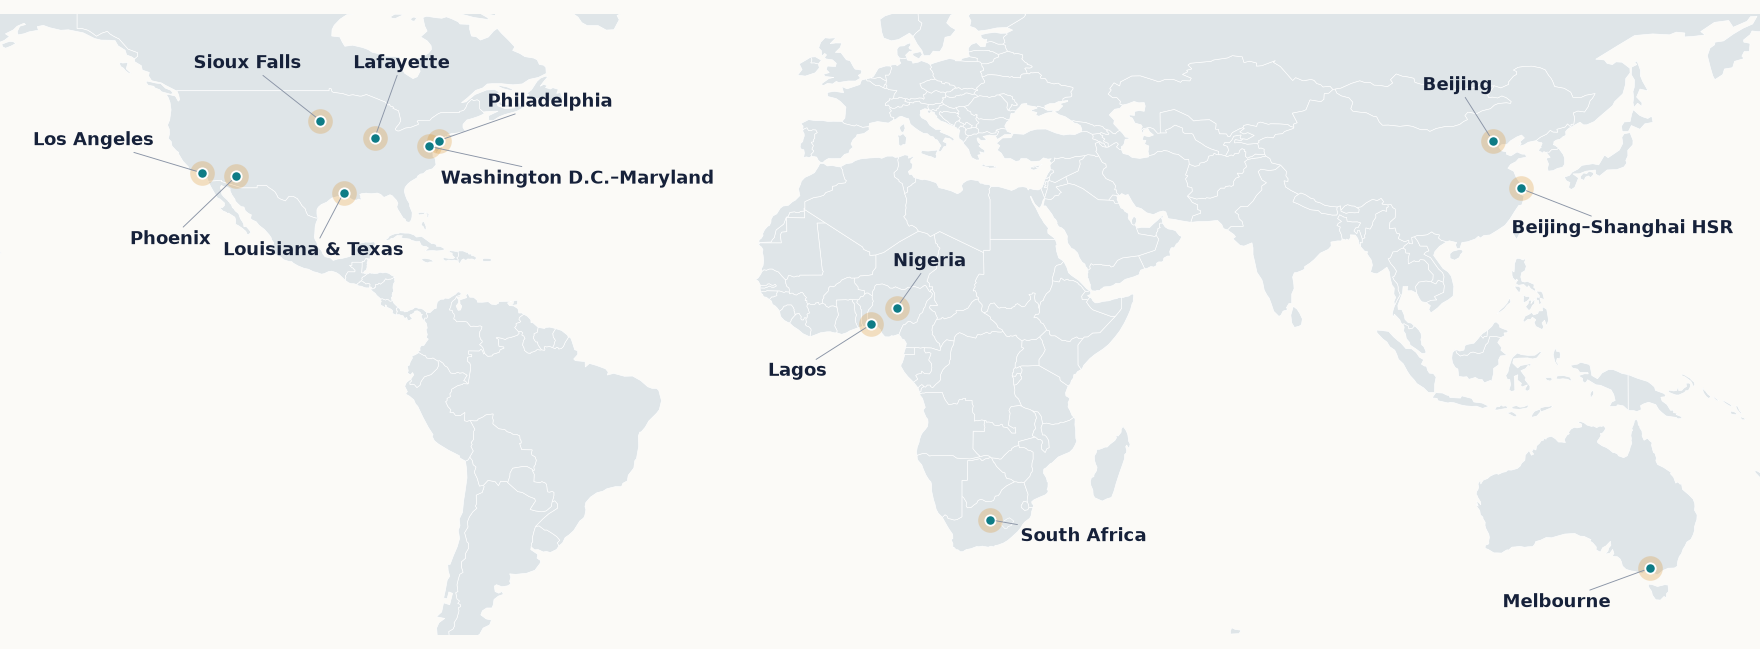
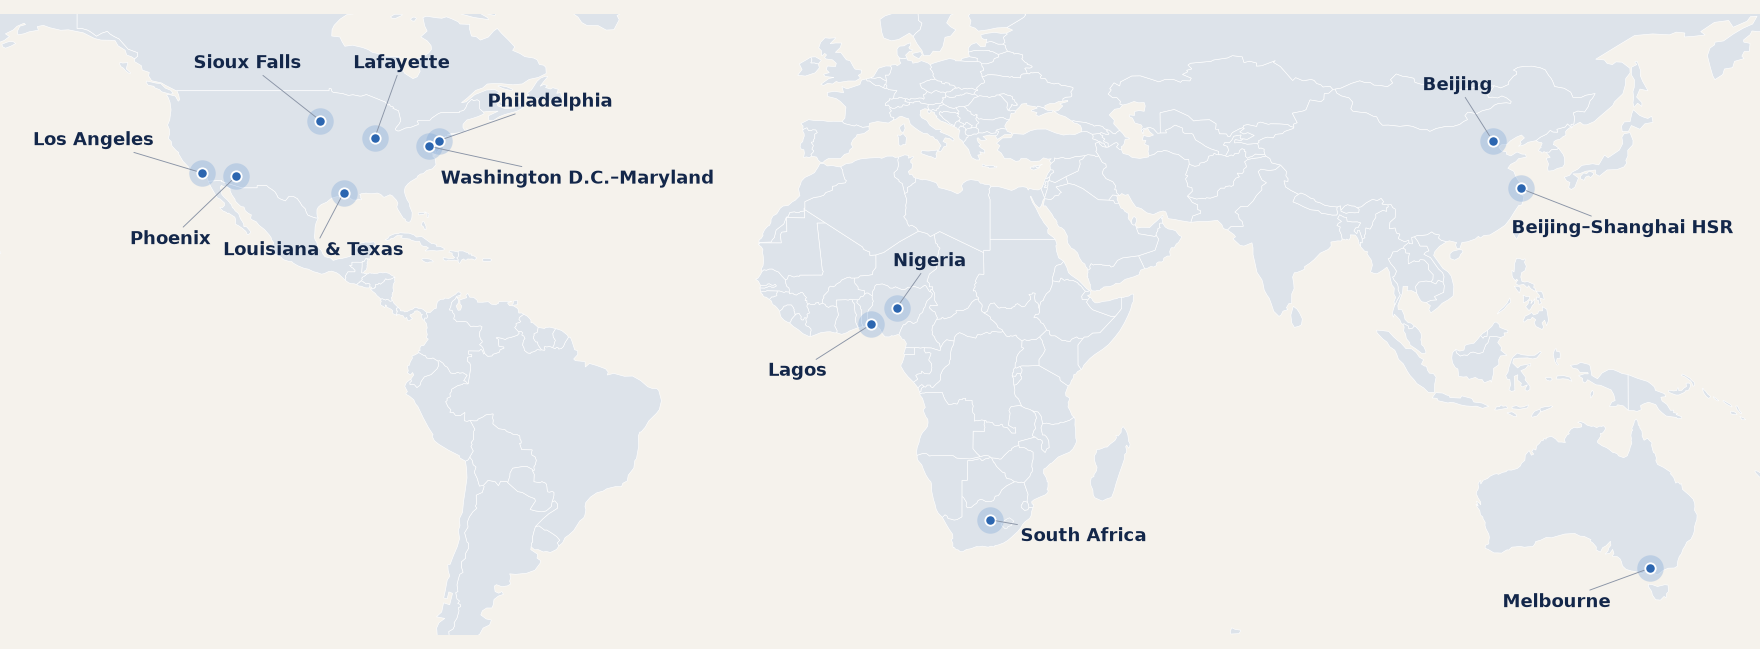
Poster-inspired style: Oswald headings, navy/steel-blue palette, poster home intro; shorter nav labels

diff --git a/assets/css/main.scss b/assets/css/main.scss
@@ -6,17 +6,17 @@ search: false
 @charset "utf-8";
 
 /* ------------------------------------------------------------------
-   Personal palette (taken from the research figures):
-   ink for text, teal for links/accents, amber for highlights
+   Personal palette taken from the profile poster:
+   navy for text/headings, steel blue for links/accents, light steel blue for highlights
    ------------------------------------------------------------------ */
-$ink: #16213a;
-$teal: #0e7c86;
-$teal-dark: #0a5c64;
-$amber: #d98b1f;
-$paper: #fbfaf7;
+$ink: #13274a;
+$teal: #2c66b0;
+$teal-dark: #1d4a86;
+$amber: #7fa7d8;
+$paper: #f5f2ec;
 
 $global-font-family: "Inter", -apple-system, BlinkMacSystemFont, "Segoe UI", Roboto, Arial, sans-serif;
-$header-font-family: "Source Serif 4", Georgia, "Times New Roman", serif;
+$header-font-family: "Oswald", "Arial Narrow", "Helvetica Neue", Arial, sans-serif;
 $primary-color: $teal;
 $link-color: $teal;
 $link-color-hover: $teal-dark;
@@ -36,7 +36,8 @@ body { background: $paper; color: $text-color; }
 h1, h2, h3, h4, .page__title, .archive__item-title, .feature__item h2 {
   font-family: $header-font-family;
   color: $ink;
-  letter-spacing: -0.01em;
+  font-weight: 600;
+  letter-spacing: 0.005em;
 }
 .page__content h2 {
   font-size: 1.55em;
@@ -94,7 +95,7 @@ tbody tr:nth-child(even) { background: rgba($teal, 0.04); }
 
 .btn--primary { background: $teal; &:hover { background: $teal-dark; } }
 .btn--info { background: $ink; &:hover { background: mix(#000, $ink, 20%); } }
-.btn--success { background: $amber; &:hover { background: mix(#000, $amber, 15%); } }
+.btn--success { background: transparent; color: $ink; box-shadow: inset 0 0 0 2px $ink; &:hover { background: $ink; color: #fff; } }
 .btn { border-radius: 999px; padding: 0.55em 1.3em; font-weight: 600; }
 
 /* Venue / role badges in publication lists */
@@ -210,7 +211,7 @@ tbody tr:nth-child(even) { background: rgba($teal, 0.04); }
 }
 .card__img { display: block; aspect-ratio: 16 / 9; background-size: cover; background-position: center; }
 .card__body { display: block; padding: 1.1em 1.2em 1.3em; }
-.card__label { display: block; font-size: 0.72em; font-weight: 700; text-transform: uppercase; letter-spacing: 0.08em; color: $amber; }
+.card__label { display: block; font-size: 0.72em; font-weight: 700; text-transform: uppercase; letter-spacing: 0.12em; color: $teal; }
 .card__title { display: block; font-family: $header-font-family; font-weight: 700; font-size: 1.25em; color: $ink; margin: 0.35em 0; line-height: 1.25; }
 .card__sub { display: block; font-size: 0.86em; color: #4d5668; line-height: 1.5; }
 
@@ -239,3 +240,40 @@ tbody tr:nth-child(even) { background: rgba($teal, 0.04); }
   img { border-radius: 12px; box-shadow: 0 10px 28px rgba($ink, 0.18); display: block; }
   @media (max-width: 700px) { float: none; width: 70%; margin: 0 auto 1.5em; } }
 .campus-strip img { max-height: 230px; object-fit: cover; }
+
+/* ===================================================================
+   Poster-style home intro (after the profile poster)
+   =================================================================== */
+.poster {
+  position: relative; display: grid; grid-template-columns: 1.25fr 1fr; align-items: end;
+  background: #f2ede8; border-radius: 18px; overflow: hidden; margin: 1em 0 2.6em;
+  padding: 2.4em 0 0 2.6em; min-height: 420px;
+  box-shadow: 0 10px 34px rgba($ink, 0.12);
+  // dot grid in the top-right corner
+  &::before { content: ""; position: absolute; top: 18px; right: 22px; width: 120px; height: 64px;
+    background-image: radial-gradient(rgba($ink, 0.35) 1.4px, transparent 1.6px); background-size: 12px 12px; }
+  // diagonal blue band along the bottom (highway stripes on the poster)
+  &::after { content: ""; position: absolute; left: 0; right: 0; bottom: 0; height: 64px;
+    background: linear-gradient(100deg, rgba($teal, 0.85) 0%, rgba($teal, 0.55) 45%, rgba($ink, 0.0) 46%),
+                linear-gradient(100deg, transparent 50%, rgba($ink, 0.9) 50.2%);
+    clip-path: polygon(0 55%, 100% 0, 100% 100%, 0 100%); }
+}
+.poster__text { position: relative; z-index: 2; padding-bottom: 5.2em; }
+.poster__kicker { font-family: $header-font-family; text-transform: uppercase; letter-spacing: 0.22em; font-size: 0.9em; color: $ink; margin: 0 0 0.2em; }
+.poster__name { font-family: $header-font-family; font-weight: 600; font-size: 3.6em; line-height: 1.02; color: $ink; margin: 0; letter-spacing: 0.01em; }
+.poster__dash { display: block; width: 46px; height: 4px; background: $teal; margin: 0.9em 0 0.8em; }
+.poster__tagline { font-style: italic; color: #3c4a66; line-height: 1.45; margin: 0 0 1em; }
+.poster__lead { font-size: 1.08em; color: $ink; max-width: 34em; margin: 0 0 0.6em; strong { color: $teal; } }
+.poster__role { font-size: 0.85em; color: #5b6476; margin: 0 0 1.1em; }
+.poster__actions .btn { margin: 0 0.4em 0.5em 0; }
+.poster__photo { position: relative; z-index: 1; align-self: end; img { display: block; width: 100%; height: auto;
+  -webkit-mask-image: linear-gradient(90deg, transparent 0%, #000 22%); mask-image: linear-gradient(90deg, transparent 0%, #000 22%); } }
+@media (max-width: 760px) {
+  .poster { grid-template-columns: 1fr; padding: 1.8em 1.4em 0; }
+  .poster__name { font-size: 2.6em; }
+  .poster__text { padding-bottom: 1em; }
+  .poster__photo img { max-width: 320px; margin: 0 auto; }
+}
+.section-title { text-transform: uppercase; letter-spacing: 0.08em; font-size: 1.45em; }
+.section-title::after { content: ""; display: block; width: 46px; height: 4px; background: $teal; margin-top: 0.35em; }
+.stat .stat__num { font-weight: 600; }

diff --git a/index.html b/index.html
@@ -72,18 +72,21 @@ research_cards:
     url: /supply-chain-logistics/
 ---
 
-<section class="intro">
-  <img class="intro__photo" src="{{ '/assets/images/headshot.jpg' | relative_url }}" alt="Xin (Bruce) Wu">
-  <div class="intro__text">
-    <p class="intro__hello">Hi, I'm Xin (Bruce) Wu.</p>
-    <h1 class="intro__headline">I build <strong>interpretable AI</strong> and <strong>optimization</strong> models for transportation, and test them on real networks from Los Angeles to Lagos.</h1>
-    <p class="intro__role">Postdoctoral Researcher · Department of Civil and Environmental Engineering · Villanova University</p>
-    <p class="intro__actions">
+<section class="poster">
+  <div class="poster__text">
+    <p class="poster__kicker">Transportation Researcher</p>
+    <h1 class="poster__name">Xin (Bruce) Wu</h1>
+    <span class="poster__dash"></span>
+    <p class="poster__tagline">Data-Driven.<br>People-Focused.<br>Mobility for Better Cities.</p>
+    <p class="poster__lead">I build <strong>interpretable AI</strong> and <strong>optimization</strong> models for transportation, and test them on real networks from Los Angeles to Lagos.</p>
+    <p class="poster__role">Postdoctoral Researcher · Civil and Environmental Engineering · Villanova University</p>
+    <p class="poster__actions">
       <a href="{{ '/about/' | relative_url }}" class="btn btn--primary">About &amp; Publications</a>
       <a href="https://scholar.google.com/citations?user=Mr9DVhsAAAAJ&amp;hl=en" class="btn btn--info">Google Scholar</a>
-      <a href="{{ '/teaching/' | relative_url }}" class="btn btn--success">Teaching &amp; INFORM Africa</a>
+      <a href="{{ '/teaching/' | relative_url }}" class="btn btn--success">Teaching</a>
     </p>
   </div>
+  <div class="poster__photo"><img src="{{ '/assets/images/home/hero_photo.jpg' | relative_url }}" alt="Xin (Bruce) Wu"></div>
 </section>
 
 <section class="reach">

diff --git a/_includes/head/custom.html b/_includes/head/custom.html
@@ -1,8 +1,8 @@
 <!-- start custom head snippets -->
 
-<!-- Inter (body) and Source Serif 4 (headings) from Google Fonts -->
+<!-- Inter (body) and Oswald (condensed headings, poster style) from Google Fonts -->
 <link rel="preconnect" href="https://fonts.googleapis.com">
 <link rel="preconnect" href="https://fonts.gstatic.com" crossorigin>
-<link rel="stylesheet" href="https://fonts.googleapis.com/css2?family=Inter:wght@400;500;600;700&family=Source+Serif+4:opsz,wght@8..60,600;8..60,700&display=swap">
+<link rel="stylesheet" href="https://fonts.googleapis.com/css2?family=Inter:ital,wght@0,400;0,500;0,600;0,700;1,400&family=Oswald:wght@400;500;600&display=swap">
 
 <!-- end custom head snippets -->

diff --git a/_pages/public-transit-railway.md b/_pages/public-transit-railway.md
@@ -9,7 +9,7 @@ toc_label: "Research Threads"
 excerpt: "New revenue management in public transit (tradable equity credits, seat allocation) and railway management: network analysis, AI demand forecasting, line planning, timetabling, air–rail integration, and urban air mobility."
 header:
   overlay_image: /assets/images/research/banner_transit.jpg
-  overlay_filter: "linear-gradient(120deg, rgba(22, 33, 58, 0.78), rgba(14, 124, 134, 0.30))"
+  overlay_filter: "linear-gradient(120deg, rgba(19, 39, 74, 0.80), rgba(44, 102, 176, 0.35))"
   caption: "Estimated boarding, alighting and OD demand on the Beijing–Shanghai high-speed rail corridor (Wu et al., 2025, TR-E)"
 gallery_tec:
   - url: /assets/images/research/transit/tec_concept.jpg

diff --git a/_pages/supply-chain-logistics.md b/_pages/supply-chain-logistics.md
@@ -9,7 +9,7 @@ toc_label: "Research Threads"
 excerpt: "Supply chain research: perishable supply chains and multi-echelon location, synchronized service network design and decomposition algorithms, and service design with QFD."
 header:
   overlay_image: /assets/images/research/banner_logistics.jpg
-  overlay_filter: "linear-gradient(120deg, rgba(22, 33, 58, 0.78), rgba(14, 124, 134, 0.30))"
+  overlay_filter: "linear-gradient(120deg, rgba(19, 39, 74, 0.80), rgba(44, 102, 176, 0.35))"
   caption: "Profit surfaces of a perishable food supply chain under a variational inequality model (Wu et al., 2018, TR-E)"
 gallery_qap:
   - image_path: /assets/images/research/logistics/qap_timespace.jpg

diff --git a/_pages/data-traffic-modeling.md b/_pages/data-traffic-modeling.md
@@ -9,7 +9,7 @@ toc_label: "Research Threads"
 excerpt: "Interpretable AI in transportation modeling, emerging data (LBS, climate, health), and transportation multi-resolution modeling & world models."
 header:
   overlay_image: /assets/images/research/banner_mobility.jpg
-  overlay_filter: "linear-gradient(120deg, rgba(22, 33, 58, 0.78), rgba(14, 124, 134, 0.30))"
+  overlay_filter: "linear-gradient(120deg, rgba(19, 39, 74, 0.80), rgba(44, 102, 176, 0.35))"
   caption: "Network-wide speed–flow prediction errors on Los Angeles freeways (Shao et al., 2025, TR-C)"
 gallery_cases:
   - image_path: /assets/images/research/mobility/piml_la_map.jpg

diff --git a/_pages/teaching.md b/_pages/teaching.md
@@ -9,7 +9,7 @@ toc_label: "Contents"
 excerpt: "University courses and the INFORM Africa training program on human mobility and infectious disease dynamics."
 header:
   overlay_image: /assets/images/teaching/banner_teaching.jpg
-  overlay_filter: "linear-gradient(120deg, rgba(22, 33, 58, 0.78), rgba(14, 124, 134, 0.30))"
+  overlay_filter: "linear-gradient(120deg, rgba(19, 39, 74, 0.80), rgba(44, 102, 176, 0.35))"
   caption: "Photo: INFORM Africa training workshop (inform-africa.org)"
 gallery_inform:
   - url: /assets/images/teaching/inform_africa_training.jpg
